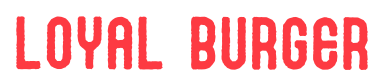
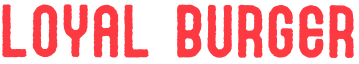
login header image

diff --git a/client/src/Components/Login.js b/client/src/Components/Login.js
@@ -3,6 +3,7 @@ import { useHistory } from 'react-router'
 import { Form, Grid, Message } from 'semantic-ui-react'
 import { AuthContext } from '../providers/AuthProvider'
 import '../StyleSheets/Login.css'
+import redloyalb from "../images/9.png"
 
 const Login = () => {
   const { handleLogin, error, setError, setLoading } = useContext(AuthContext)
@@ -29,9 +30,7 @@ const Login = () => {
             <Grid.Column style={{ maxWidth: 450 }}>
               <div className="login-header">
                 Welcome to
-                <div className="loyal-burger-header">
-                  LOYAL BURGER
-                </div>
+                <img className="loyal-burger-header" src={redloyalb} />
               </div>
               <div className="button-group">
                 <button className="yellow-button GoldWebGoldenBackG AmaranthRedFontC">Login</button>

diff --git a/client/src/StyleSheets/Login.css b/client/src/StyleSheets/Login.css
@@ -36,8 +36,6 @@
 }
 
 .loyal-burger-header {
-  font-size: xx-large;
-  color: #d7272f;
 }
 
 .button-group {
